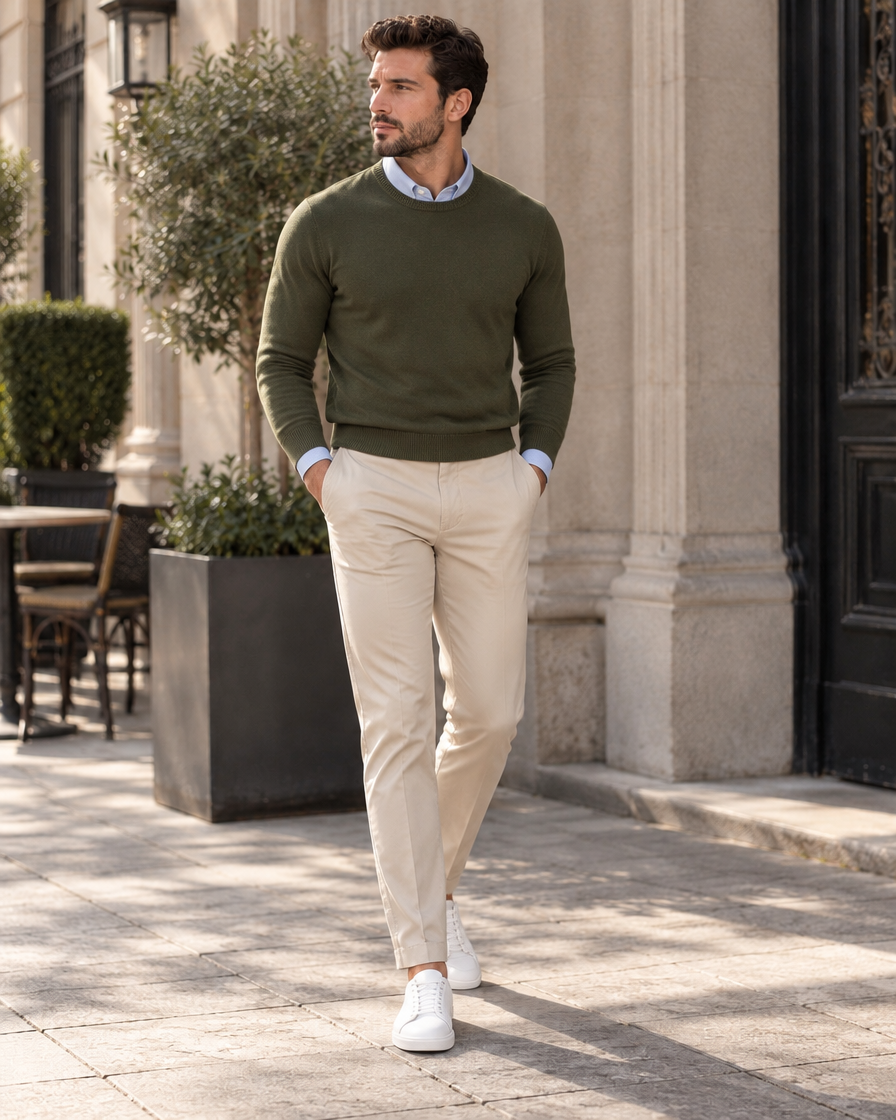
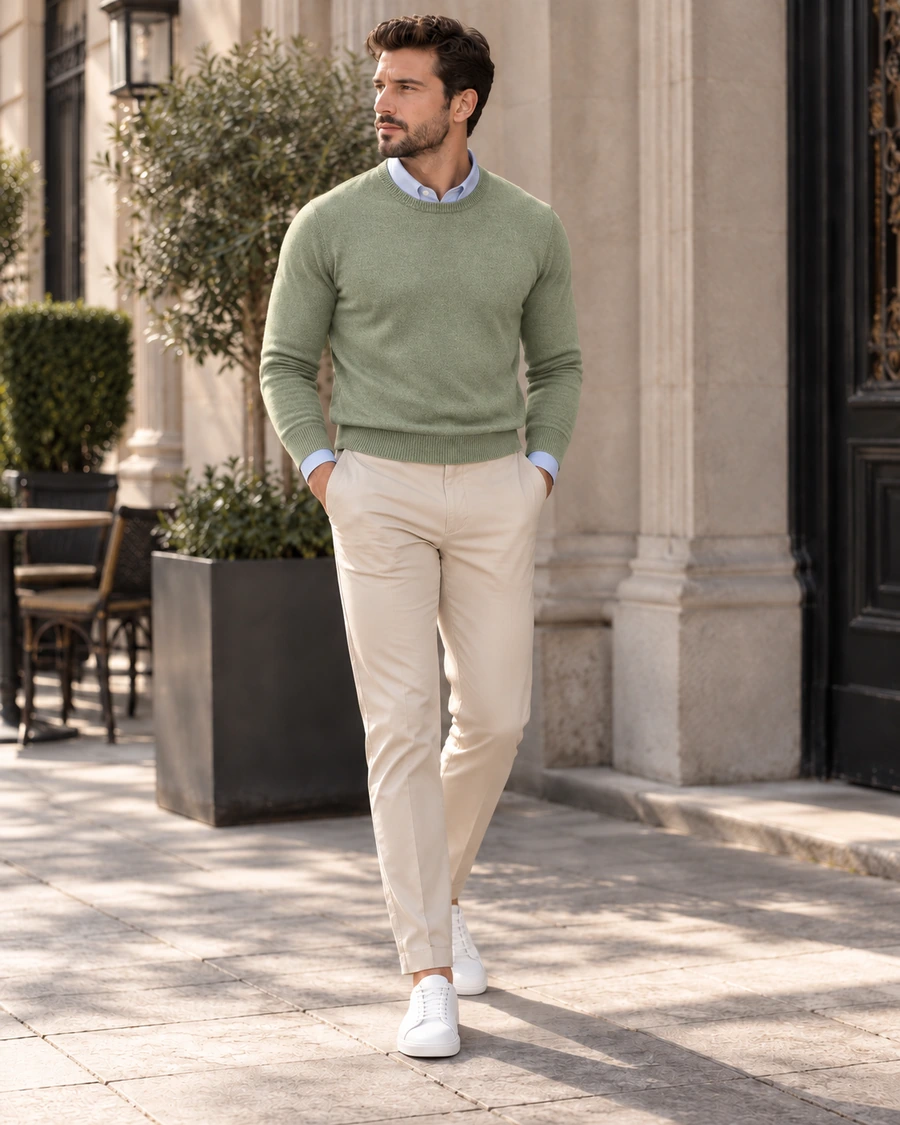
Complete pending looks and sync owned wardrobe items

diff --git a/data-canonical.js b/data-canonical.js
@@ -81,19 +81,27 @@
   addVariant('family-green-khaki','look-67');
 
 
-  // Recovered generated batch 68-73 from the original staged filenames.
-  upsertPiece({id:'olive-crewneck',name:'Olive crewneck sweater',category:'Top'});
+  // Recovered and completed generated batch 68-77.
+  upsertPiece({id:'tan-overshirt',name:'Light tan cotton overshirt',category:'Outerwear'});
 
   upsertLook({id:'look-68',family:'family-blazer-polo-navy',name:'Navy jacket + white polo + grey trousers + white sneakers',image:'assets/look-68.webp?v=1',formal:3,badges:['Office','Dinner','Weekend'],pieces:['navy-blazer','white-polo','grey-trousers','white-leather-sneakers']});
   addVariant('family-blazer-polo-navy','look-68');
 
-  upsertFamily({id:'family-navy-crewneck-shirt',name:'Navy crewneck + shirt',hero:'look-70',looks:['look-70','look-73']});
+  upsertFamily({id:'family-navy-crewneck-shirt',name:'Navy crewneck + shirt',hero:'look-70',looks:['look-70','look-73','look-75']});
   upsertLook({id:'look-70',family:'family-navy-crewneck-shirt',name:'Navy crewneck + light blue shirt + navy trousers + white sneakers',image:'assets/look-70.webp?v=1',formal:3,badges:['Office','Dinner','Travel'],pieces:['navy-crewneck','light-blue-oxford','navy-trousers','white-leather-sneakers']});
   upsertLook({id:'look-73',family:'family-navy-crewneck-shirt',name:'Navy crewneck + white shirt + navy trousers + white sneakers',image:'assets/look-73.webp?v=1',formal:3,badges:['Office','Dinner','Travel'],pieces:['navy-crewneck','white-shirt','navy-trousers','white-leather-sneakers']});
+  upsertLook({id:'look-75',family:'family-navy-crewneck-shirt',name:'Navy crewneck + cream shirt + beige chinos + white sneakers',image:'assets/look-75-hq.webp?v=1',formal:2,badges:['Office','Weekend','Travel'],pieces:['navy-crewneck','owned-cream-buttondown','beige-chinos','white-leather-sneakers']});
 
-  upsertFamily({id:'family-olive-crewneck-shirt',name:'Olive crewneck + shirt',hero:'look-71',looks:['look-71','look-72']});
-  upsertLook({id:'look-71',family:'family-olive-crewneck-shirt',name:'Olive crewneck + light blue shirt + beige chinos + white sneakers',image:'assets/look-71.webp?v=1',formal:2,badges:['Office','Weekend','Travel'],pieces:['olive-crewneck','light-blue-oxford','beige-chinos','white-leather-sneakers']});
-  upsertLook({id:'look-72',family:'family-olive-crewneck-shirt',name:'Olive crewneck + light blue shirt + navy trousers + white sneakers',image:'assets/look-72.webp?v=1',formal:2,badges:['Office','Weekend','Travel'],pieces:['olive-crewneck','light-blue-oxford','navy-trousers','white-leather-sneakers']});
+  upsertFamily({id:'family-olive-crewneck-shirt',name:'Pale green crewneck + shirt',hero:'look-71',looks:['look-71','look-72','look-74']});
+  upsertLook({id:'look-71',family:'family-olive-crewneck-shirt',name:'Pale green crewneck + light blue shirt + beige chinos + white sneakers',image:'assets/look-71.webp?v=1',formal:2,badges:['Office','Weekend','Travel'],pieces:['owned-green-crewneck','light-blue-oxford','beige-chinos','white-leather-sneakers']});
+  upsertLook({id:'look-72',family:'family-olive-crewneck-shirt',name:'Pale green crewneck + light blue shirt + navy trousers + white sneakers',image:'assets/look-72.webp?v=1',formal:2,badges:['Office','Weekend','Travel'],pieces:['owned-green-crewneck','light-blue-oxford','navy-trousers','white-leather-sneakers']});
+  upsertLook({id:'look-74',family:'family-olive-crewneck-shirt',name:'Pale green crewneck + cream shirt + beige chinos + white sneakers',image:'assets/look-74-hq.webp?v=1',formal:2,badges:['Office','Weekend','Travel'],pieces:['owned-green-crewneck','owned-cream-buttondown','beige-chinos','white-leather-sneakers']});
+
+  upsertFamily({id:'family-cognac-suede-denim',name:'Cognac suede + dark denim',hero:'look-76',looks:['look-76']});
+  upsertLook({id:'look-76',family:'family-cognac-suede-denim',name:'Cognac suede jacket + cream shirt + dark denim + Italian suede shoes',image:'assets/look-76-hq.webp?v=1',formal:2,badges:['Dinner','Weekend','Travel'],pieces:['cognac-suede-jacket','owned-cream-buttondown','dark-denim','owned-darkbrown-suede-italian-laceup']});
+
+  upsertFamily({id:'family-tan-overshirt-denim',name:'Tan overshirt + light denim',hero:'look-77',looks:['look-77']});
+  upsertLook({id:'look-77',family:'family-tan-overshirt-denim',name:'Tan overshirt + white tee + light denim + cognac loafers',image:'assets/look-77-hq.webp?v=1',formal:1,badges:['Weekend','Travel'],pieces:['tan-overshirt','white-tee','blue-denim','brown-loafers']});
 
   // High-quality face/look replacements (2026-09-17 housekeeping).
   // Replace legacy low-resolution assets with face-consistent full-resolution renders.

diff --git a/detail.html b/detail.html
@@ -28,7 +28,8 @@
   <script src="data-batch13.js?v=4"></script>
   <script src="data-batch14.js?v=4"></script>
   <script src="data-batch15.js?v=2"></script>
-  <script src="data-canonical.js?v=7"></script>
+  <script src="data-canonical.js?v=8"></script>
+  <script src="data-owned-intake-20261006.js?v=2"></script>
   <script src="look-aliases.js?v=1"></script>
   <script src="wardrobe-normalize.js?v=1"></script>
   <script src="wardrobe-draft-prune.js?v=3"></script>
@@ -46,7 +47,7 @@
   <script src="catalog-batch3.js?v=2"></script>
   <script src="catalog-v4.js?v=3"></script>
   <script>window.PIECE_IMAGES=window.FITS_CATALOG_IMAGES||{};</script>
-  <script src="piece-image-overrides.js?v=21"></script>
+  <script src="piece-image-overrides.js?v=22"></script>
   <script src="detail-v3.js?v=26"></script>
   <script src="detail-piece-fix.js?v=2"></script>
   <script src="detail-season.js?v=16"></script>

diff --git a/unlock.html b/unlock.html
@@ -28,7 +28,8 @@
   <script src="data-batch13.js?v=4"></script>
   <script src="data-batch14.js?v=4"></script>
   <script src="data-batch15.js?v=2"></script>
-  <script src="data-canonical.js?v=7"></script>
+  <script src="data-canonical.js?v=8"></script>
+  <script src="data-owned-intake-20261006.js?v=2"></script>
   <script src="look-aliases.js?v=1"></script>
   <script src="wardrobe-normalize.js?v=1"></script>
   <script src="loader-audit.js?v=3"></script>
@@ -43,7 +44,7 @@
   <script src="catalog-batch3.js?v=2"></script>
   <script src="catalog-v4.js?v=3"></script>
   <script src="app.js?v=23"></script>
-  <script src="piece-image-overrides.js?v=21"></script>
+  <script src="piece-image-overrides.js?v=22"></script>
   <script src="smart-unlock.js?v=22"></script>
   <script src="inspiration-inbox.js?v=25"></script>
   <script src="piece-focus.js?v=2"></script>

diff --git a/piece-image-overrides.js b/piece-image-overrides.js
@@ -40,6 +40,7 @@ Object.assign(PIECE_IMAGES,window.FITS_CATALOG_IMAGES||{}, {
   'brown-suede-jacket':'assets/catalog-brown-suede-jacket.webp?v=1',
   'olive-overshirt':'assets/catalog-olive-overshirt.webp?v=1',
   'olive-crewneck':'assets/owned-green-crewneck.webp?v=1',
+  'tan-overshirt':'assets/catalog-tan-overshirt.webp?v=1',
   'charcoal-trousers':'assets/piece-charcoal-chinos.webp?v=14',
   'navy-quarterzip':'assets/piece-navy-quarterzip.webp?v=14',
   'cream-chinos':'assets/piece-cream-chinos.webp?v=1',

diff --git a/index.html b/index.html
@@ -28,7 +28,8 @@
   <script src="data-batch13.js?v=4"></script>
   <script src="data-batch14.js?v=4"></script>
   <script src="data-batch15.js?v=2"></script>
-  <script src="data-canonical.js?v=7"></script>
+  <script src="data-canonical.js?v=8"></script>
+  <script src="data-owned-intake-20261006.js?v=2"></script>
   <script src="look-aliases.js?v=1"></script>
   <script src="wardrobe-normalize.js?v=1"></script>
   <script src="wardrobe-draft-prune.js?v=3"></script>

diff --git a/stats.html b/stats.html
@@ -26,7 +26,8 @@
   <script src="data-batch13.js?v=4"></script>
   <script src="data-batch14.js?v=4"></script>
   <script src="data-batch15.js?v=2"></script>
-  <script src="data-canonical.js?v=7"></script>
+  <script src="data-canonical.js?v=8"></script>
+  <script src="data-owned-intake-20261006.js?v=2"></script>
   <script src="look-aliases.js?v=1"></script>
   <script src="wardrobe-normalize.js?v=1"></script>
   <script src="wardrobe-draft-prune.js?v=3"></script>

diff --git a/wardrobe.html b/wardrobe.html
@@ -44,7 +44,7 @@
   <script src="catalog-batch3.js?v=2"></script>
   <script src="catalog-v4.js?v=3"></script>
   <script src="app.js?v=23"></script>
-  <script src="piece-image-overrides.js?v=21"></script>
+  <script src="piece-image-overrides.js?v=22"></script>
   <script src="piece-focus.js?v=2"></script>
   <script src="piece-focus-v2.js?v=2"></script>
   <script src="catalog-cleanup.js?v=1"></script>
